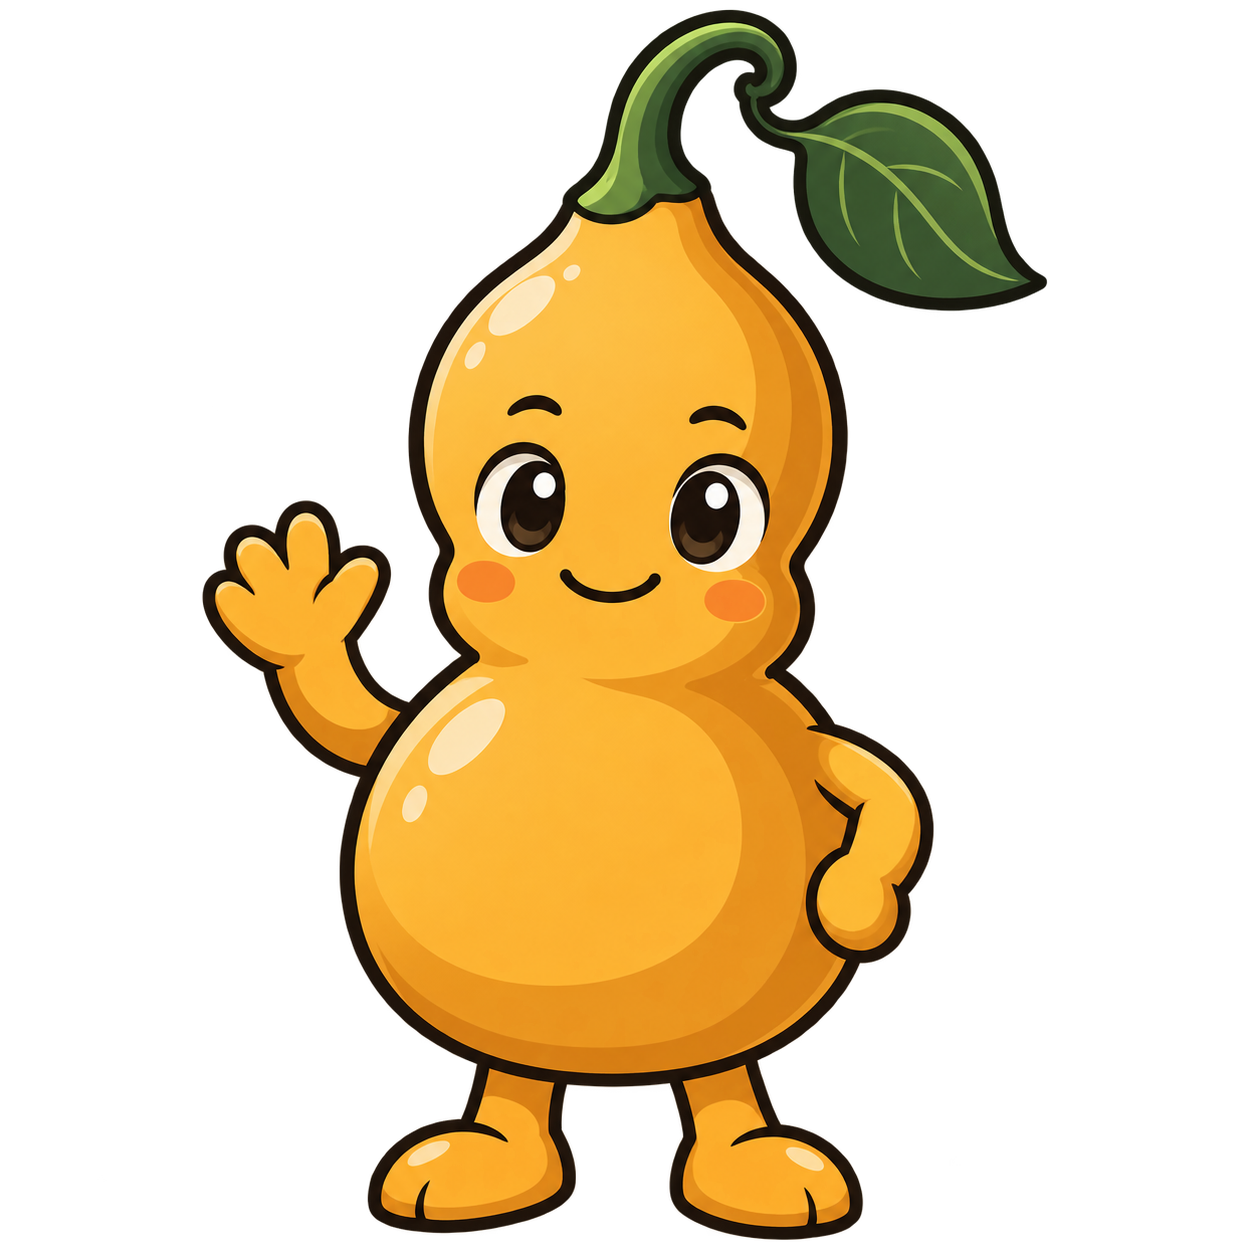
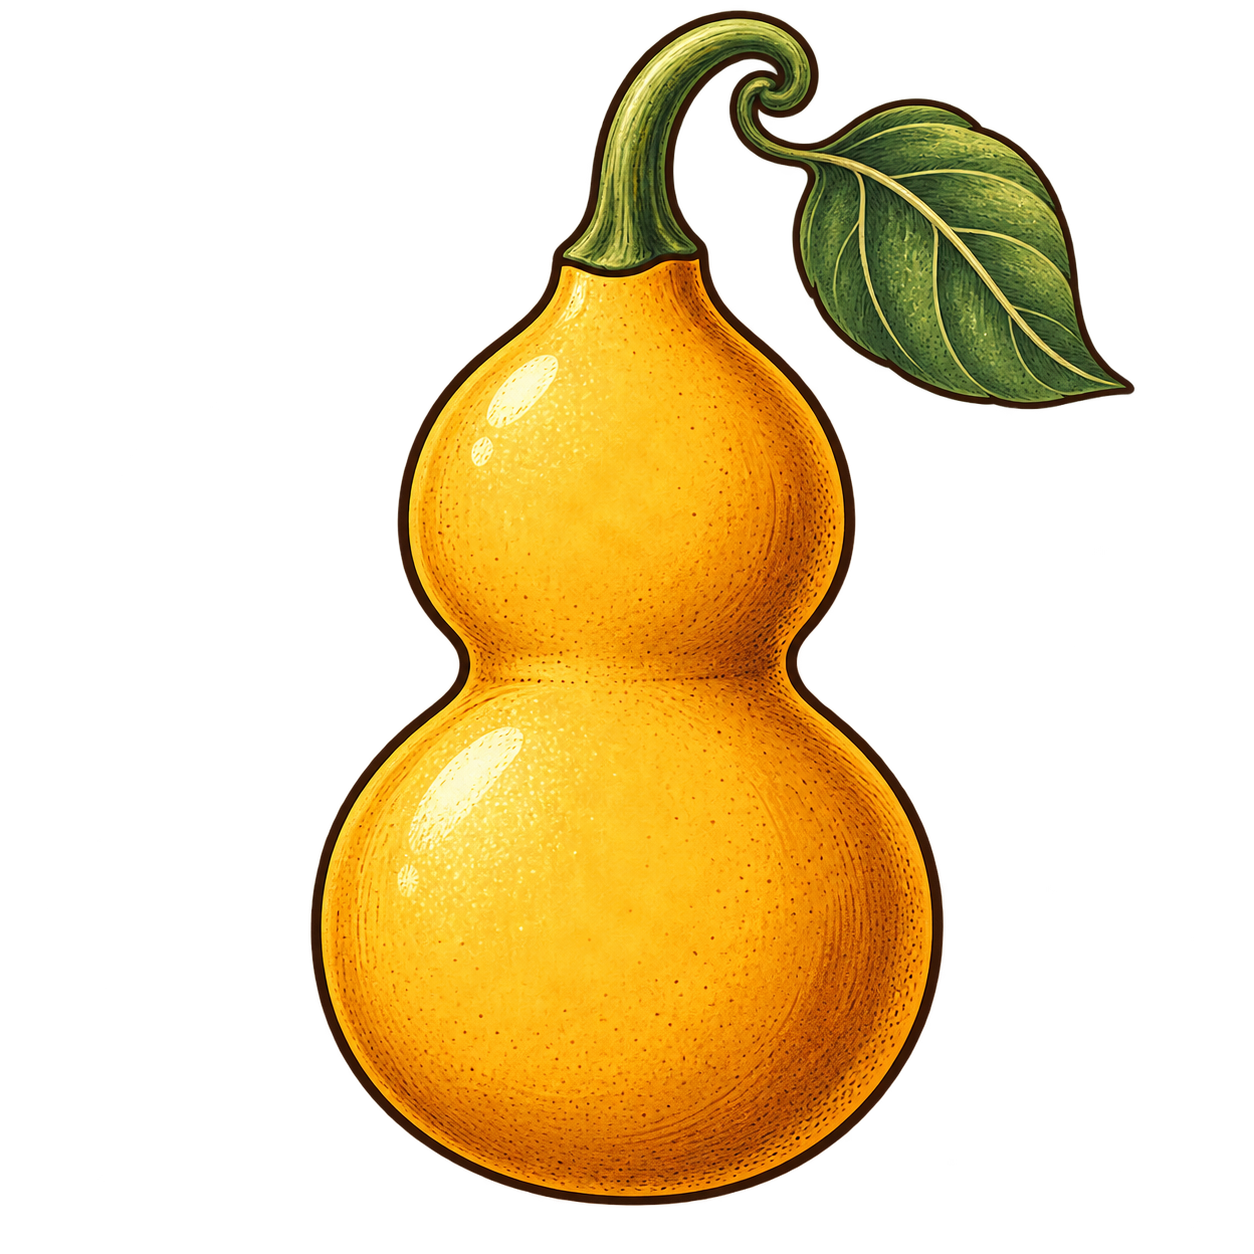
docs: adopt botanical gourd mascot
Closes #12

diff --git a/docs/assets/README.md b/docs/assets/README.md
@@ -1,6 +1,29 @@
 # Asset sources
 
-[`agcoord-gourd-mascot.png`](agcoord-gourd-mascot.png) is the selected transparent RGBA gourd
-mascot used by the root README. Keep that canonical path stable. Any replacement must retain
-its editable source or generation record, license/provenance, and accessible description
-here rather than silently overwriting the published identity.
+[`agcoord-gourd-mascot.png`](agcoord-gourd-mascot.png) is the selected 1254 × 1254 transparent
+RGBA gourd mascot used by the root README. It depicts a double-lobed golden bottle gourd with
+a curled green stem and one leaf in a restrained naturalist botanical style. Keep
+that canonical path stable so README and package-description URLs do not change.
+
+## Generation record
+
+- Date: 2026-08-30
+- Tool: OpenAI built-in image generation, edit mode
+- Reference: the preceding mascot at the same canonical path
[1 lines of base64/hex data omitted]
+- Prompt (verbatim):
+
+```text
+Use case: logo-brand
+Asset type: open-source developer tool mascot/emblem, transparent PNG
+Primary request: Redesign the referenced yellow gourd as a sophisticated naturalist botanical mark with absolutely no face or anthropomorphic features.
+Input image: identity reference; preserve the recognizable double-lobed bottle-gourd silhouette, curled green stem, single leaf, and warm golden-yellow body.
+Style/medium: refined vintage botanical plate meets contemporary screen print; restrained etched contour and subtle stippled texture, crisp enough for a software README.
+Composition: centered upright full gourd, leaf balanced to the upper right, generous transparent margin, square canvas.
+Palette: ochre gold, muted amber, deep forest and olive green, dark umber linework.
+Constraints: no eyes, mouth, facial marks, arms, hands, legs, feet, pose, blush, text, letters, badge border, scene, drop shadow, watermark, or extra objects; genuinely transparent background; legible at 240 pixels.
+```
+
+Any later replacement must retain its editable source or generation record,
+license/provenance, and accessible description here rather than silently overwriting the
+published identity.

diff --git a/README.md b/README.md
@@ -1,6 +1,6 @@
 # AGCoord
 
-<img src="https://raw.githubusercontent.com/xu-hao/agcoord/main/docs/assets/agcoord-gourd-mascot.png" alt="AGCoord gourd mascot" width="240">
+<img src="https://raw.githubusercontent.com/xu-hao/agcoord/main/docs/assets/agcoord-gourd-mascot.png" alt="Golden botanical AGCoord gourd with a curled green stem and leaf" width="240">
 
 AGCoord is a machine-local coordinator for developers and coding agents that share a
 workstation. It gives every check, standalone full gate, and atomic gate-and-publication

diff --git a/CHANGELOG.md b/CHANGELOG.md
@@ -5,6 +5,8 @@ versioning; dates use ISO 8601.
 
 ## Unreleased
 
+- Replace the cartoon character with a naturalist botanical gourd while retaining
+  the stable mascot URL, transparent canvas, and compact README presentation.
 - Separate compact TUI columns with visible gutters and mark every clipped value with an
   ellipsis while retaining the complete value in the detail view.
 - Show compact human-readable remote or local repository names in the TUI table and full
